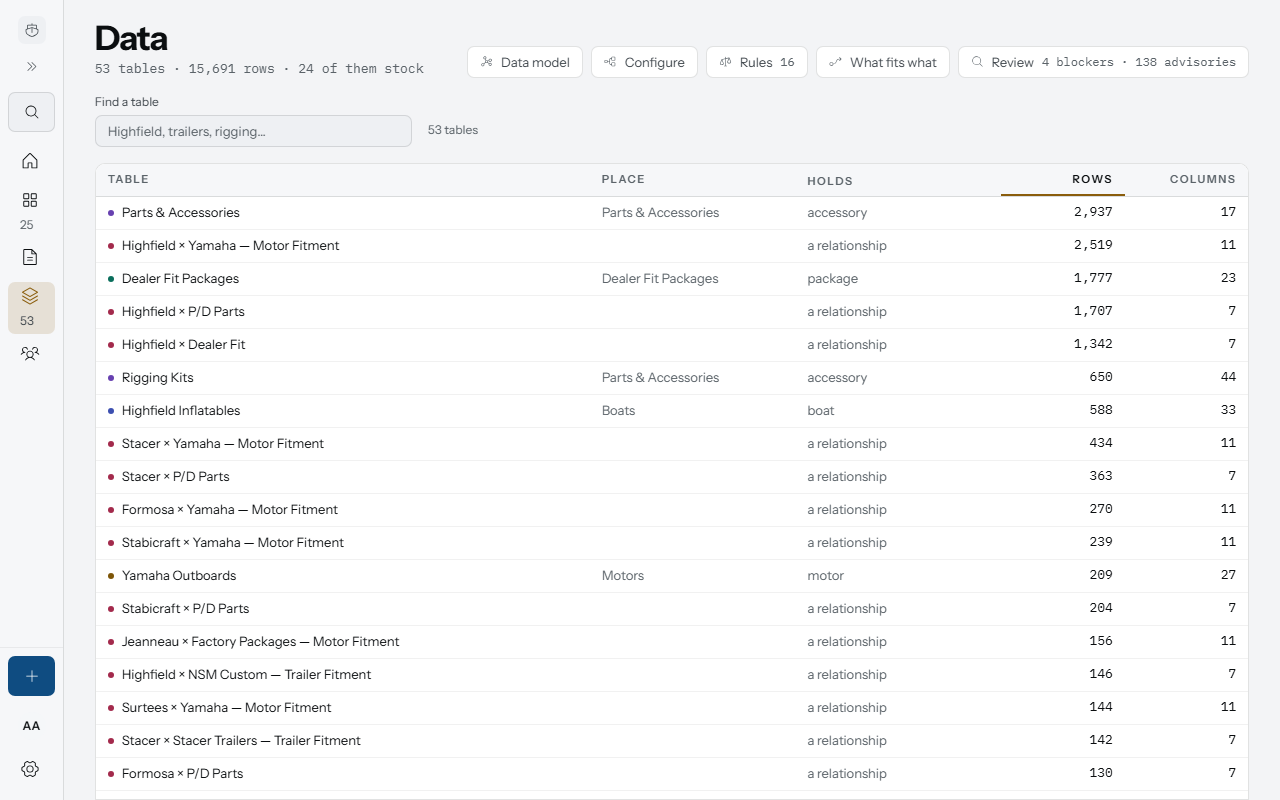
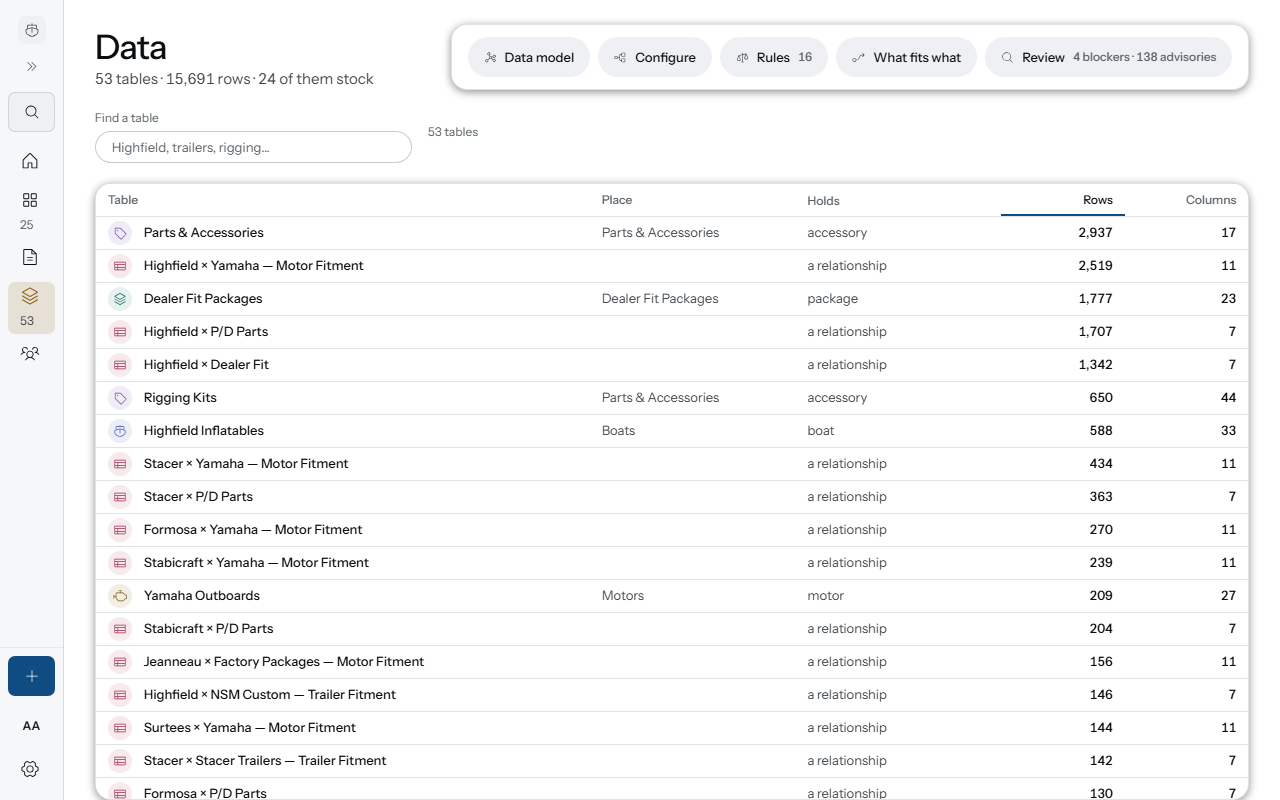
The Data register leads every row with its kind, in the same language
"Now do the same Porsche treatment on the Data screen." The language
the quotes and customers registers took the same evening, read off
Porsche Finder: a title pair, the doors as pills in a card, the list a
white card on a 16px radius, every row led by a mark, sentence case in
the body face, no mono anywhere. A table has no photograph; its kind
has a glyph, and the glyph on a disc in the kind's own hue leads the
row where a 6px dot stated the same fact at a size nobody read.

The row keeps the register's height. CLAUDE.md asks a Cockpit screen
for eighteen rows at 1280x800 and the first cut's 48px rows gave
twelve; at --row-h with a 24px disc, twenty-one are on the screen at
1280 — the mark is still four times the dot.

Measured after: types clean, lint 343/343, 468/468 literal px; nothing
overlaps; 1,286 text nodes clear contrast; sweep clean at 2.83x; 14 of
14 baselines re-taken.

Claude-Session: https://claude.ai/code/session_01MC1ZgThVvEeHFfPaBTEjJA

diff --git a/src/app/data-screen.css b/src/app/data-screen.css
@@ -373,3 +373,199 @@
     display: none;
   }
 }
+
+/* ============================================================
+   THE DATA REGISTER, IN PORSCHE'S LANGUAGE — 2026-09-15.
+
+   The language the quotes and customers registers took the same
+   evening, read off Porsche Finder: a title pair, the doors as
+   pills in a card, the list a white card on a 16px radius, every
+   row led by a mark, sentence case throughout, no mono. A table
+   has no photograph; its kind has a glyph, and the glyph on a
+   disc in the kind's own hue leads the row where a 6px dot did.
+   ============================================================ */
+
+.dt {
+  gap: var(--s-5);
+  padding-top: var(--s-6);
+  background: var(--surface-1);
+}
+
+/* -- the title pair ------------------------------------------- */
+
+.dt-name {
+  font-size: var(--t-display-size);
+  font-weight: 500;
+  line-height: 1.05;
+  letter-spacing: -0.02em;
+}
+
+.dt-census {
+  font-family: var(--font-sans);
+  font-size: var(--t-heading-size);
+  font-weight: 400;
+  color: var(--fg-secondary);
+}
+
+/* -- the doors: pills in a card ------------------------------- */
+
+.dt-ways {
+  gap: var(--s-2);
+  padding: var(--s-3) var(--s-4);
+  border: var(--border) solid var(--line);
+  border-radius: 16px;
+  background: var(--surface-1);
+  box-shadow: var(--e-card);
+}
+
+.dt-way {
+  height: 40px;
+  padding: 0 var(--s-4);
+  border: 0;
+  border-radius: 999px;
+  background: var(--surface-3);
+  color: var(--fg);
+  font-size: var(--t-small-size);
+  font-weight: 500;
+}
+
+@media (hover: hover) and (pointer: fine) {
+  .dt-way:hover {
+    background: var(--surface-4);
+    color: var(--fg);
+  }
+}
+
+.dt-way-glyph {
+  color: var(--fg-secondary);
+}
+
+.dt-way-n {
+  font-family: var(--font-sans);
+  font-size: var(--t-caption-size);
+  color: var(--fg-tertiary);
+}
+
+/* -- the tools ------------------------------------------------- */
+
+.dt-tools {
+  align-items: center;
+}
+
+.dt-tools .ui-field-input {
+  border: var(--border) solid var(--line-strong);
+  border-radius: 999px;
+  background: var(--surface-1);
+  padding-inline: var(--s-4);
+}
+
+.dt-tools .ui-field-input:focus {
+  border-color: var(--fg);
+  box-shadow: none;
+}
+
+.dt-tools .ui-field-label {
+  color: var(--fg-tertiary);
+}
+
+.dt-count {
+  color: var(--fg-tertiary);
+}
+
+/* -- the table is a card --------------------------------------- */
+
+.dt-port {
+  border: var(--border) solid var(--line);
+  border-radius: 16px;
+  background: var(--surface-1);
+  box-shadow: var(--e-card);
+}
+
+.dt-h {
+  background: var(--surface-1);
+  border-bottom: var(--border) solid var(--line);
+}
+
+.dt-h .t-label,
+.dt-sort {
+  font-family: var(--font-sans);
+  font-size: var(--t-caption-size);
+  font-weight: 500;
+  letter-spacing: 0;
+  text-transform: none;
+  color: var(--fg-tertiary);
+}
+
+.dt-h[aria-sort='ascending'] .dt-sort,
+.dt-h[aria-sort='descending'] .dt-sort {
+  color: var(--fg);
+  box-shadow: inset 0 -2px 0 var(--action);
+}
+
+.dt-row,
+.dt-c,
+.dt-open {
+  height: 48px;
+}
+
+.dt-c {
+  font-family: var(--font-sans);
+  font-size: var(--t-small-size);
+  color: var(--fg-secondary);
+  border-bottom: var(--border) solid var(--line);
+}
+
+.dt-open {
+  gap: var(--s-3);
+  font-family: var(--font-sans);
+  font-weight: 500;
+  color: var(--fg);
+}
+
+@media (hover: hover) and (pointer: fine) {
+  .dt-open:hover {
+    color: var(--action);
+  }
+}
+
+.dt-mark {
+  display: inline-grid;
+  flex: 0 0 auto;
+  place-items: center;
+  width: 30px;
+  height: 30px;
+  border-radius: 999px;
+  background: color-mix(in srgb, var(--kind, var(--fg)) 10%, var(--surface-1));
+  color: var(--kind, var(--fg-secondary));
+}
+
+.dt-c--n {
+  font-family: var(--font-sans);
+  font-weight: 500;
+  font-variant-numeric: tabular-nums;
+  color: var(--fg);
+}
+
+.dt-none {
+  color: var(--fg-tertiary);
+}
+
+/* THE ROW KEEPS THE REGISTER'S HEIGHT. CLAUDE.md asks a Cockpit
+   screen for eighteen rows at 1280x800 and 48px rows gave twelve;
+   the mark fits a 33px row at 24px, which is still four times the
+   dot it replaced. */
+.dt-row,
+.dt-c,
+.dt-open {
+  height: var(--row-h);
+}
+
+.dt-mark {
+  width: 24px;
+  height: 24px;
+}
+
+.dt-mark svg {
+  width: 14px;
+  height: 14px;
+}

diff --git a/src/app/DataScreen.tsx b/src/app/DataScreen.tsx
@@ -39,6 +39,7 @@ import { useConstraints } from '@/features/constraints/constraintDefs'
 import { WORKBOOK_RULES } from '@/features/constraints'
 import { ICON_SIZE } from '@/lib/icons'
 import { Field } from '@/ui'
+import { TableKindSymbol, kindOf } from '@/features/tablekit'
 import { isRetired } from '@/types/model'
 import type { EntityDef } from '@/types/model'
 import { useLintFindings } from '@/features/review'
@@ -63,7 +64,7 @@ type SortBy = 'name' | 'rows' | 'columns' | 'place'
 interface Sheet {
   id: string
   name: string
-  kind: string
+  kind: NonNullable<EntityDef['kind']>
   /** the module this table belongs to, or '' when none claims it */
   place: string
   rows: number
@@ -249,7 +250,13 @@ export function DataScreen({
               <tr key={sheet.id} className="dt-row" data-kind={sheet.kind}>
                 <td className="dt-c dt-c--name">
                   <button type="button" className="dt-open" onClick={() => onOpenTable(sheet.id)}>
-                    <span className="k-dot dt-dot" aria-hidden="true" />
+                    {/* THE KIND LEADS THE ROW, as a glyph on a disc in its own hue —
+                          Porsche's list leads every row with a picture and a
+                          table of rows has none; a 6px dot was the same fact
+                          at a size nobody read. */}
+                      <span className="dt-mark" aria-hidden="true">
+                        <TableKindSymbol kind={kindOf(sheet.kind)} size={ICON_SIZE.small} />
+                      </span>
                     {sheet.name}
                   </button>
                 </td>

diff --git a/src/app/shell.css b/src/app/shell.css
@@ -3458,3 +3458,9 @@
     background: var(--surface-1);
   }
 }
+
+@media (max-width: 1024px) {
+  .shell-body:has(.dt) {
+    background: var(--surface-1);
+  }
+}

diff --git a/docs/research/visual-qa-rebuild.md b/docs/research/visual-qa-rebuild.md
@@ -429,3 +429,20 @@ sixth thing on a quoted row wrapping under a five-track grid; six now.
 | `check:types` · `lint` · register tests | clean · 343/343 · 66 passed |
 | `check-collide` · `check-contrast` · `qa-sweep` | nothing overlaps · 1,286 clear · clean, customers 2.83× |
 | `check:shots --update` | 14 of 14 re-taken |
+
+## 2026-09-15, later — the Data register in the same language
+
+"Now do the same Porsche treatment on the Data screen." The same
+language the quotes and customers registers took: a title pair, the
+doors as pills in a card, the list a white card on a 16px radius, every
+row led by a mark, sentence case, no mono. A table has no photograph;
+its kind has a glyph, so the kind's glyph on a disc in its own hue leads
+the row where a 6px dot did. The row keeps `--row-h`: CLAUDE.md asks a
+Cockpit screen for eighteen rows at 1280×800 and a 48px row gave twelve;
+photographed at 1280, twenty-one are on the screen.
+
+| ruler | result |
+|---|---|
+| `check:types` · `lint` · `check:styles` | clean · 343/343 · 468/468 |
+| `check-collide` · `check-contrast` · `qa-sweep` | nothing overlaps · 1,286 clear · clean, data 2.83× |
+| `check:shots --update` | 14 of 14 re-taken |
